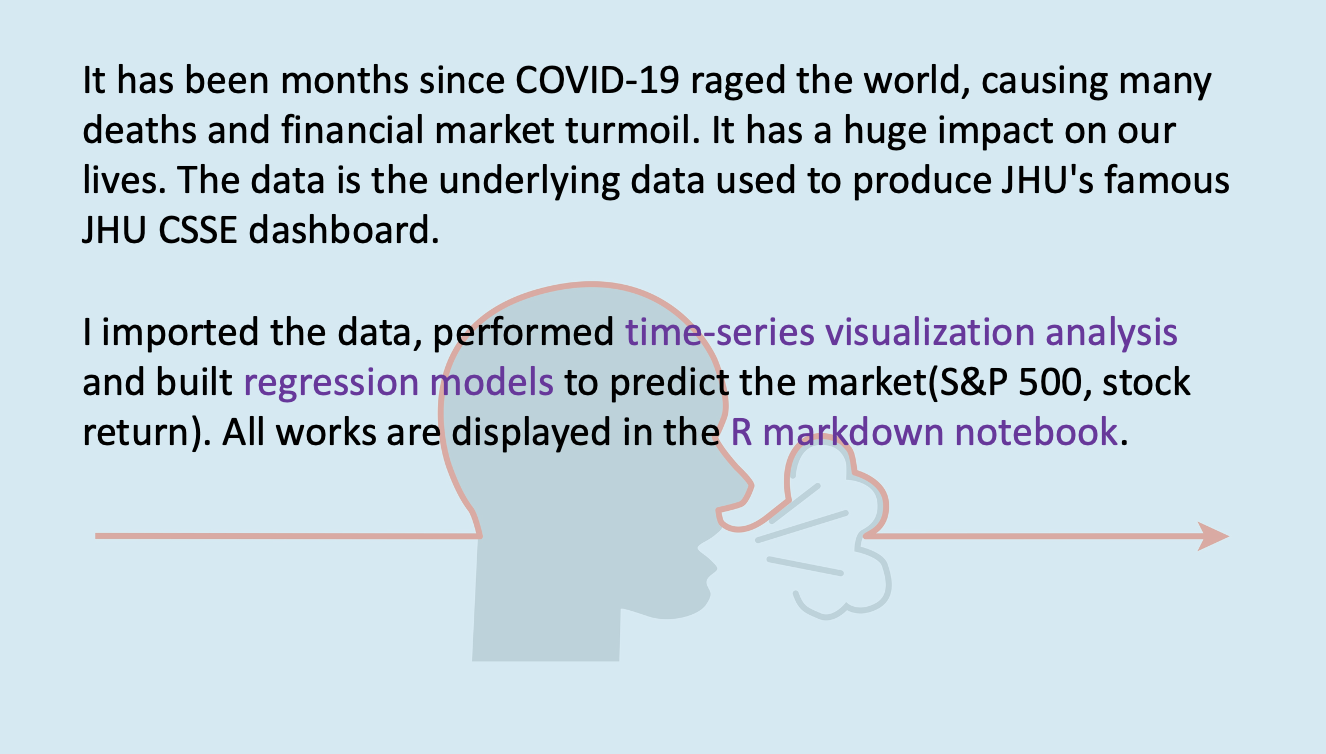
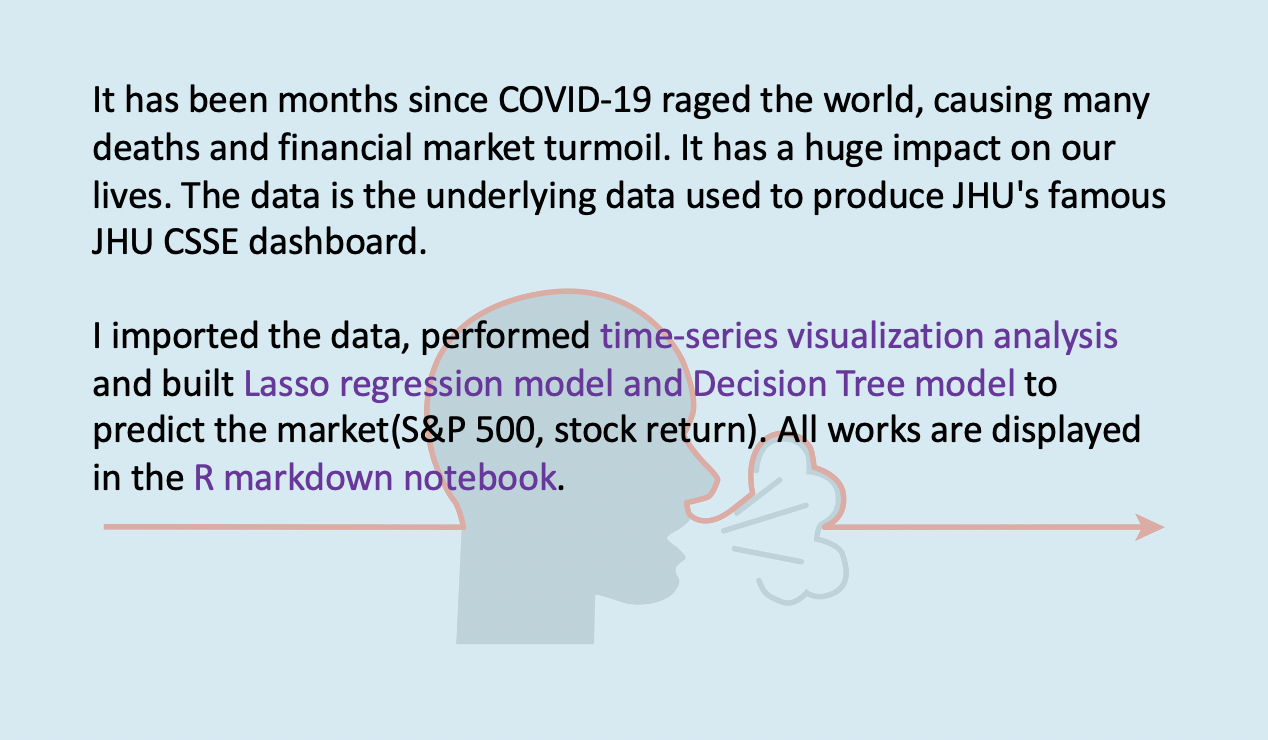
July 2020

diff --git a/index.html b/index.html
@@ -84,9 +84,9 @@
 							</article>
 							<article class="col-6 col-12-xsmall work-item">
 								<a href="covid 19/text.png" class="image fit thumb" onclick = "$('#fullsSix').show();"><img src="covid 19/thumb.jpg" alt="" /></a>
-								<h3 id="fullsSix" style="margin-top: -50px; display: none;"><a href="#">Building it, please come back in a few days</a></h3>
+								<h3 id="fullsSix" style="margin-top: -50px; display: none;"><a href="covid 19/covid.new.html">R code</a></h3>
 								<h3>COVID-19 analysis and the impact on the market</h3>
-								<p> Used <b><u>R</u></b> to visualize COVID-19 data on the world map and build model to predict the market trends based on the Covid-19 data</p>
+								<p> Used <b><u>R markdown notebook</u></b> to visualize COVID-19 data on the world map and build model to predict the market trends based on the COVID-19 data</p>
 							</article>
 						</div>
 						<!---
